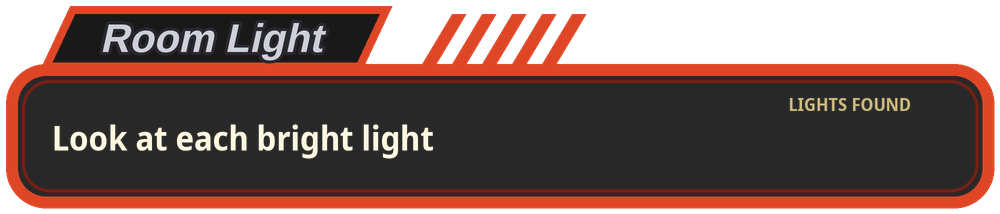
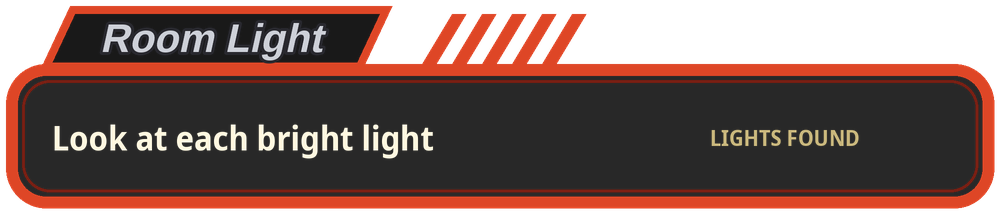
XR calibration: Lights found and its count on one line

Changed region(s): [[0.713, 0.5888, 0.868, 0.7009], [0.775, 0.4486, 0.93, 0.5327]]

diff --git a/tools/xr_cards/make_calibration.py b/tools/xr_cards/make_calibration.py
@@ -202,11 +202,11 @@ def strip():
     img, d = frame(w, h, "Room Light")
     y = TAB + h // 2 - s(2)
     d.text((s(52), y), "Look at each bright light", font=mfont(34, True), fill=NAME, anchor="lm")
-    label = "LIGHTS FOUND"
-    d.text((w - s(150), TAB + s(40)), label, font=mfont(18, True), fill=LABEL, anchor="mm")
-    # The count goes under the label (slot "count"); "Room changed" under the
-    # line (slot "changed").
-    return img, (w - s(230), TAB + s(52), s(160), s(80)), (s(54), TAB + s(98))
+    # The count goes right of its label, on the line (slot "count", as wide as
+    # two digits); "Room changed" under the line (slot "changed").
+    count = (w - s(52) - s(84), y - s(40), s(84), s(80))
+    d.text((count[0] - s(4), y), "LIGHTS FOUND", font=mfont(22, True), fill=LABEL, anchor="rm")
+    return img, count, (s(54), TAB + s(98))
 
 
 def done():
